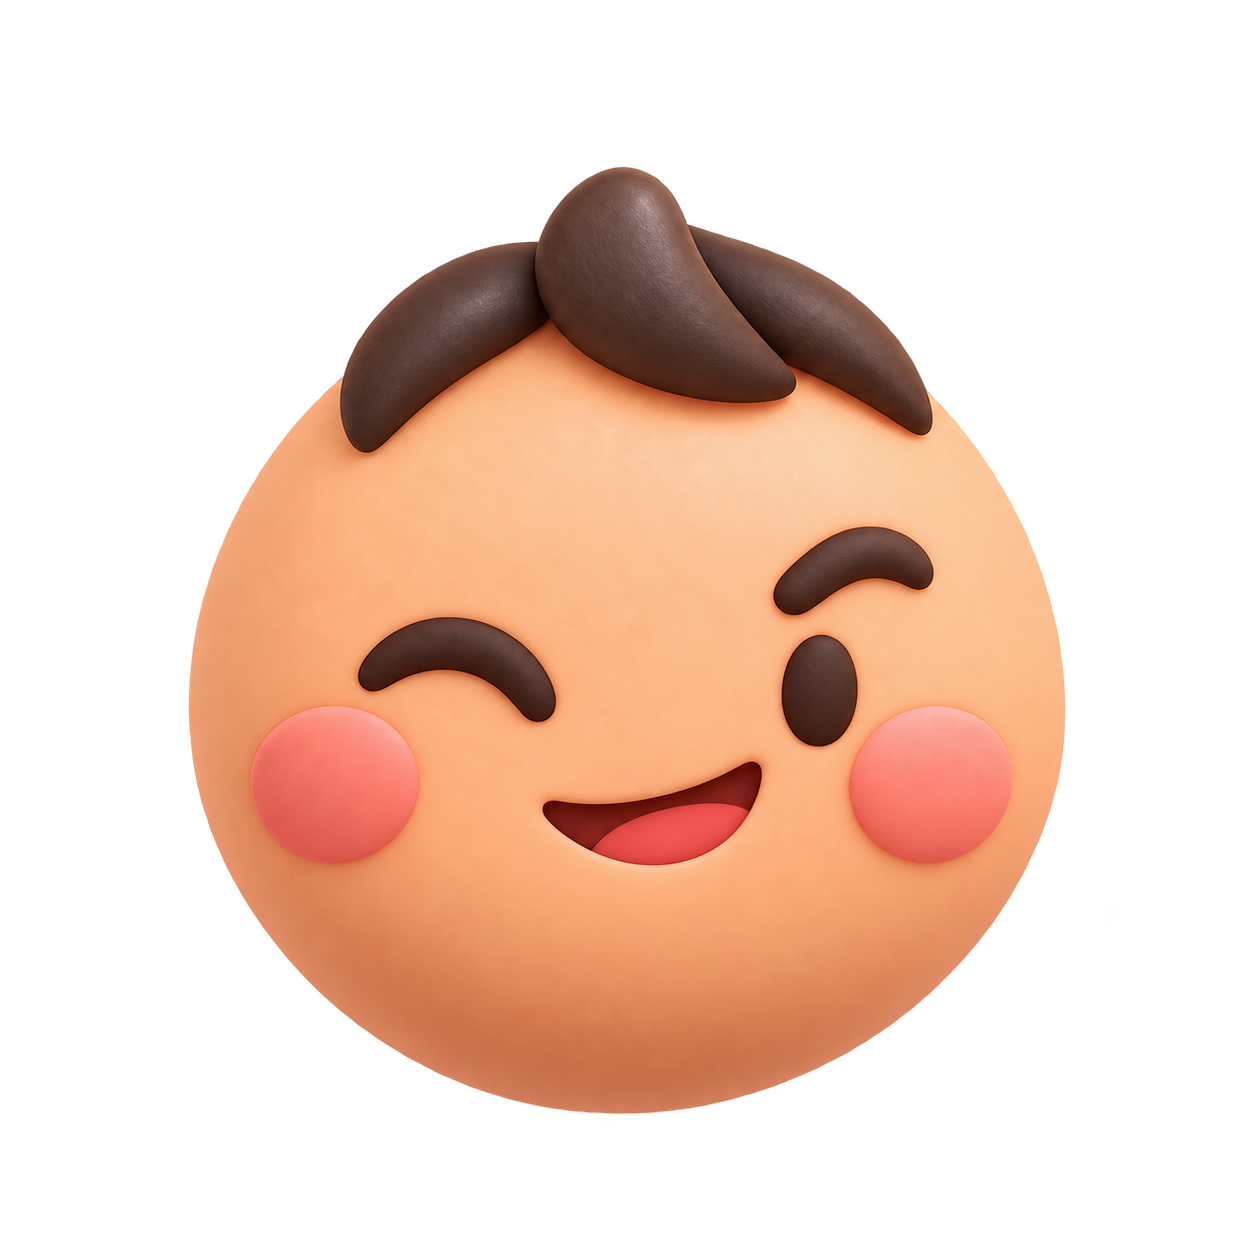
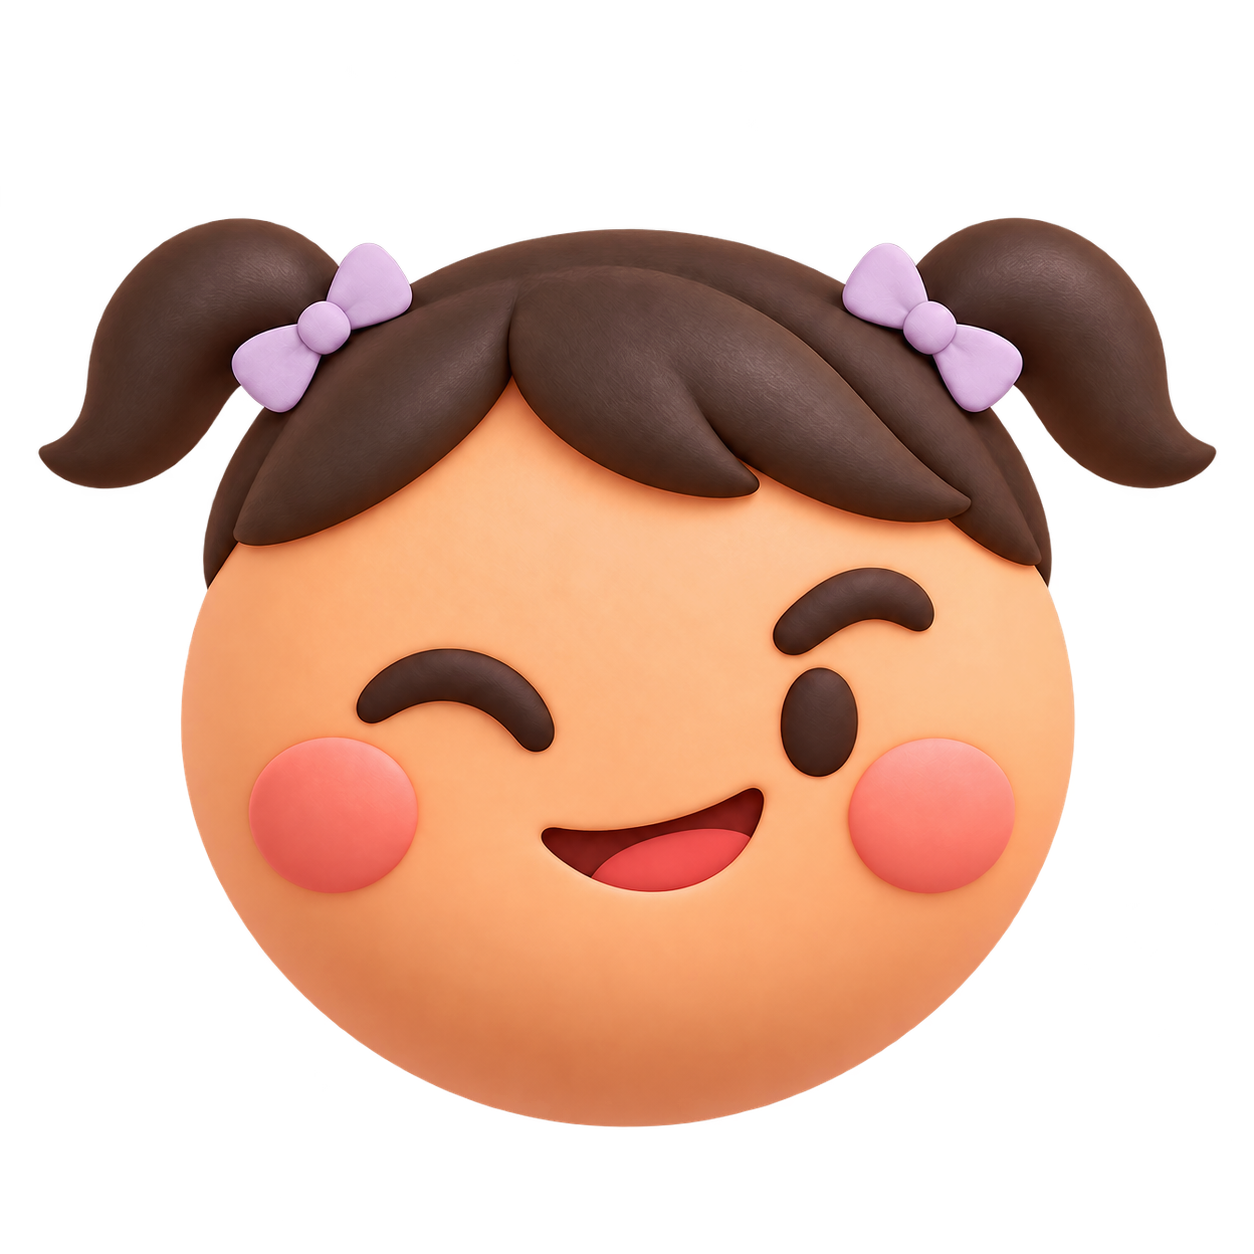
Give Ellie mood emojis bangs and pigtails

diff --git a/ellies-random-mood/game.js b/ellies-random-mood/game.js
@@ -24,7 +24,7 @@ const loadAssets = () => Promise.all(moods.map(mood => new Promise(resolve => {
   const sticker = new Image();
   sticker.onload = () => resolve(true);
   sticker.onerror = () => resolve(false);
-  sticker.src = `assets/${mood.id}.png`;
+  sticker.src = `assets/${mood.id}.png?v=2`;
 })));
 let assetsReady = loadAssets();
 
@@ -60,7 +60,7 @@ button.addEventListener("click", async () => {
   draws += 1;
   card.dataset.mood = mood.id;
   number.textContent = String(draws).padStart(2, "0");
-  image.src = `assets/${mood.id}.png`;
+  image.src = `assets/${mood.id}.png?v=2`;
   // The nearby live text describes the mood; the sticker is decorative.
   image.alt = "";
   name.textContent = mood.name;

diff --git a/ellies-random-mood/index.html b/ellies-random-mood/index.html
@@ -7,7 +7,7 @@
   <meta name="description" content="A tiny mood lottery. Press a button and meet one of Ellie's many moods.">
   <title>Ellie’s Random Mood</title>
   <link rel="stylesheet" href="style.css">
-  <script src="game.js" defer></script>
+  <script src="game.js?v=2" defer></script>
 </head>
 <body>
   <header class="topbar">

diff --git a/docs/emoji-prompts.md b/docs/emoji-prompts.md
@@ -17,3 +17,24 @@ Use case: precise-object-edit. Asset type: one emoji PNG sticker for a mini mood
 ## grumpy — ellies-random-mood/assets/grumpy.png
 
 Use case: precise-object-edit. Asset type: one emoji PNG sticker for a mini mood game. Input image 1 is the emoji CHARACTER DESIGN to preserve. Change ONLY the facial expression to GRUMPY / comically unimpressed: two short simple dark oval eyes looking sideways, sharply inward-tilted cartoon eyebrows and a tiny protruding pout, gently squished cheek discs. Amusing mild toddler indignation, not threatening or distressed. Keep exactly the same round apricot clay-ball silhouette, three-part dark brown swooped tuft, pink circular cheeks, material, front view, face scale, lighting, centered square composition and transparent padding. This is a generic abstract emoji; keep it completely non-photorealistic and non-identifying, no realistic human face, no nose or ears. Do not add props, text, mood symbols, clothing, body, hands, extra faces, background or watermark. Truly transparent background. One single isolated head, entire silhouette inside the canvas.
+
+
+## Hair update — built-in image_gen
+
+The four current PNGs use side-swept bangs and short pigtails with lilac bows.
+
+### Sunny hair edit
+
+Use case: precise-object-edit. Edit this transparent clay emoji sticker. Change ONLY the HAIRSTYLE to a cute little girl's hair: dark brown soft side-swept bangs resting across the top of the forehead, and TWO short small pigtails, one on each upper side of the head, fastened with tiny pale lilac ribbon bows. The hair should be simple, rounded, soft matte clay shapes matching the existing toy material. Remove the current three-part tall boyish swooped tuft completely. Preserve the same apricot round face, same pink cheek discs, EXACT happy closed crescent eyes and joyful open mouth, same lighting and clay material, front view and size. Keep abstract and non-identifying, no realistic human features, no nose or ears. Head only. Center the entire head including both pigtails inside a square with 12 percent transparent padding on every side. Do not crop the hair. Truly transparent background. No body, clothes, props, text, watermark or extra characters.
+
+### cheeky hair edit
+
+undefined
+
+### sleepy hair edit
+
+undefined
+
+### grumpy hair edit
+
+undefined
